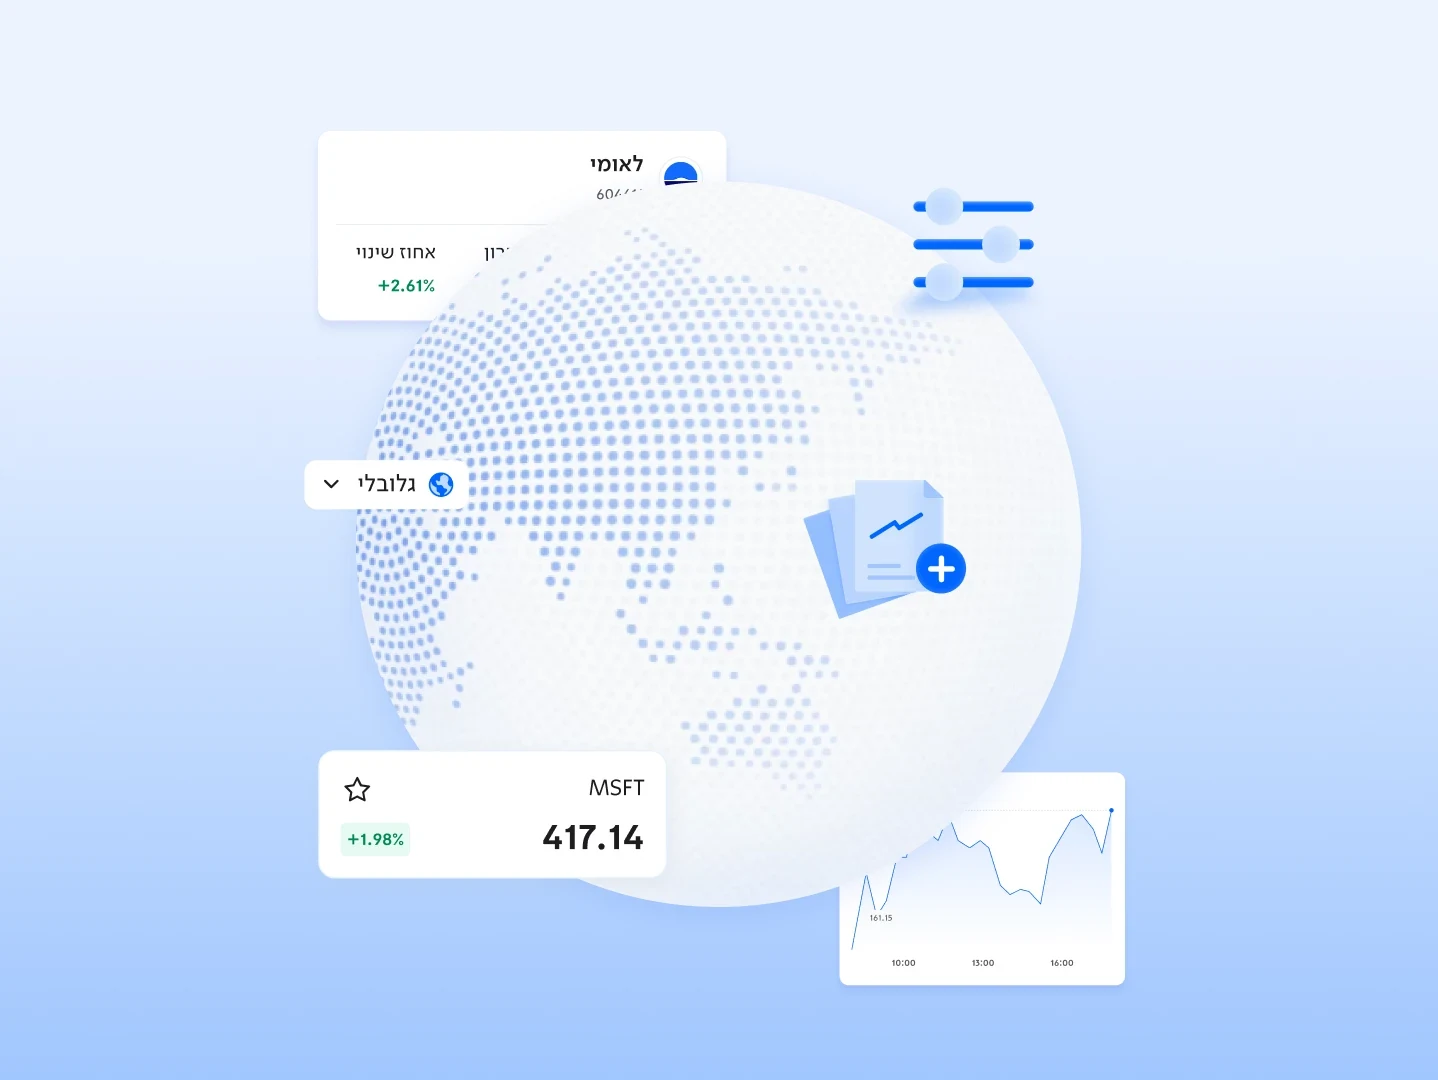
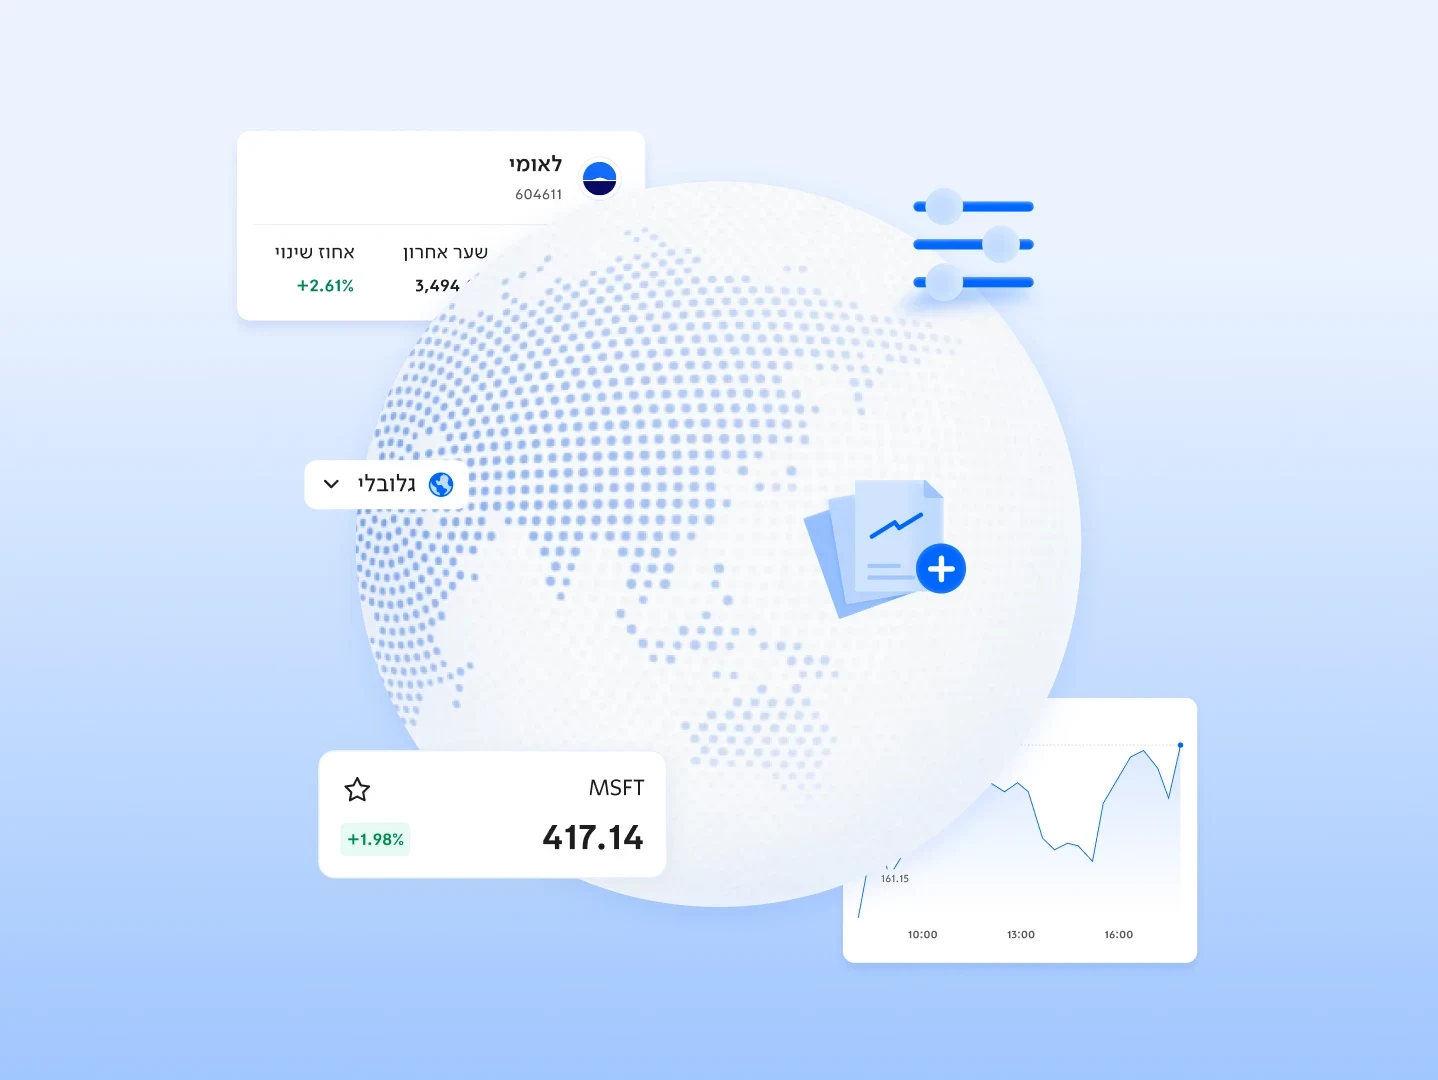
Leumi: new cover image, black In progress badge
Claude-Session: https://claude.ai/code/session_01AeEjuNiLWNHrV1PEirV1dn

diff --git a/index.html b/index.html
@@ -140,7 +140,7 @@
     .hw-panel:hover .hw-cta svg { transform: translate(4px, -4px); }
     .hw-cta svg { transition: transform .3s; }
     .hw-cta--muted { color: #6B6862; font-weight: 400; }
-    .hw-badge { position: absolute; top: 16px; left: 16px; display: inline-flex; align-items: center; gap: 6px; padding: 6px 12px; border-radius: 999px; background: rgba(243,240,234,.9); font-size: 12px; font-weight: 500; }
+    .hw-badge { position: absolute; top: 16px; left: 16px; display: inline-flex; align-items: center; gap: 6px; padding: 6px 12px; border-radius: 999px; background: #151515; color: #F3F0EA; font-size: 12px; font-weight: 500; }
     .hw-badge i { width: 8px; height: 8px; border-radius: 50%; background: #fbbf24; }
     .hw-progress { width: 100%; }
     .hw-progress div { height: 2px; background: #DAD5CC; }
@@ -276,7 +276,7 @@
             <div><p class="hw-client">Veteran Israeli bank</p><h3>Old Meets New</h3><p class="hw-text">Modernising a veteran bank&rsquo;s app for a younger audience, without losing the loyal customers who built it, through a workshop and 10 interviews.</p><div class="hw-tags"><span>Finance</span><span>Lead Designer &amp; Research</span><span>2025</span></div></div>
           </a>
           <div class="hw-panel" style="--c:#fbbf24">
-            <div class="hw-pic"><img src="assets/covers/leumi.webp" alt="Investments app illustration: a dotted globe with stock cards, a chart and filters" /><span class="hw-badge"><i></i>In progress</span></div>
+            <div class="hw-pic"><img src="assets/covers/leumi.webp?v=2" alt="Investments app illustration: a dotted globe with stock cards, a chart and filters" /><span class="hw-badge"><i></i>In progress</span></div>
             <div><p class="hw-client">Bank Leumi</p><h3>The Big Trade</h3><p class="hw-text">An end-to-end redesign of Leumi&rsquo;s trading app, still in progress. The case study is on its way.</p><div class="hw-tags"><span>Finance</span><span>In progress</span><span>2023–2026</span></div><span class="hw-cta hw-cta--muted">Coming soon</span></div>
           </div>
         </div>
